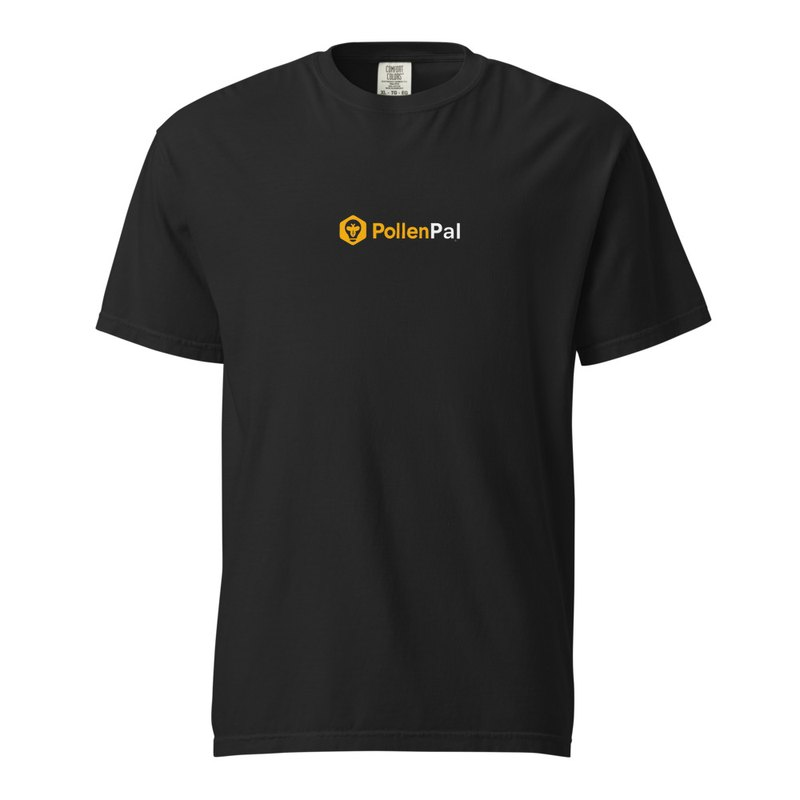
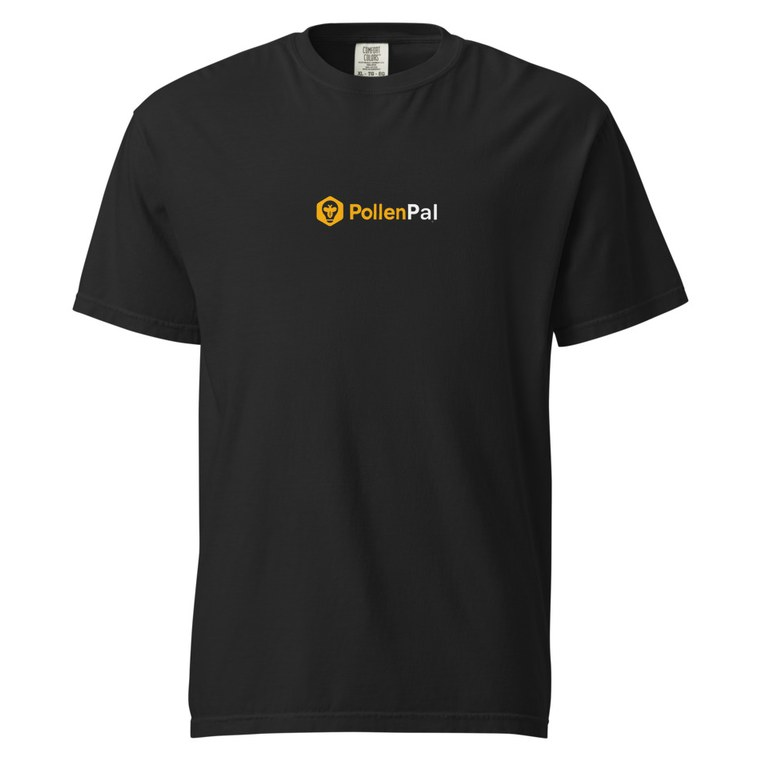
Rework the merch page layout so it reads as a real store
The page looked sparse and unfinished. Three real problems, all fixed.

Product images rendered as 478x760 portrait boxes that object-fit cropped, so the
shirts looked stretched. The height attribute on the <img> was beating
aspect-ratio: 1/1. Added an explicit height: auto and kept the attributes, so the
browser still reserves space and the layout does not shift on load.

Both mockups are now cropped to ONE shared box, computed from the union of the two
garments' bounding boxes. Printful ships them with a wide white margin, so the
shirts sat small in their frames; cropping each to its own bounds would have put
the two at slightly different scales side by side.

The bottom of the page was a centred blob of grey small print held together with
<br><br>. It is now a three-column spec strip (the blank, sizing, shipping) using
the same uppercase-label discipline as the rest of the site, with the Printful
checkout handoff as a single quiet footnote underneath.

Also: own class names (.merch-shop rather than .section) so nothing fights the
shared stylesheet's 120px default, tighter vertical rhythm, a real divider between
price and product name, equal-height cards, keyboard focus handled via
:focus-within, and prefers-reduced-motion respected.

diff --git a/merch.html b/merch.html
@@ -32,18 +32,29 @@
   <style>
     /* Merch page only. Kept local rather than in styles.css: this page is a
        standalone surface that no other page links to, and styles.css is the
-       shared system for the marketing pages. */
-    .merch-hero { padding: 88px 0 8px; text-align: center; }
+       shared system every marketing page depends on.
+       Own class names (.merch-*) so nothing here fights .section's 120px default. */
+
+    .merch-hero { padding: 92px 0 0; text-align: center; }
     .merch-hero .eyebrow { display: flex; justify-content: center; }
-    .merch-hero h1 { font-size: clamp(42px, 5.4vw, 72px); margin-bottom: 22px; }
+    .merch-hero h1 { font-size: clamp(44px, 5.6vw, 76px); margin-bottom: 20px; }
+    .merch-hero .lede { margin: 0 auto; }
+
+    .merch-shop {
+      margin-top: 72px;
+      padding: 80px 0 96px;
+      background: var(--cream-soft);
+      border-top: 1px solid var(--line);
+    }
 
     .merch-grid {
       display: grid;
       grid-template-columns: repeat(2, 1fr);
-      gap: 32px;
-      max-width: 880px;
+      gap: 40px;
+      max-width: 1000px;
       margin: 0 auto;
     }
+
     .merch-card {
       display: flex;
       flex-direction: column;
@@ -53,52 +64,95 @@
       overflow: hidden;
       transition: transform 0.2s ease, box-shadow 0.2s ease;
     }
-    .merch-card:hover {
-      transform: translateY(-3px);
-      box-shadow: 0 18px 40px -18px rgba(10, 10, 10, 0.22);
+    .merch-card:hover,
+    .merch-card:focus-within {
+      transform: translateY(-4px);
+      box-shadow: 0 24px 50px -22px rgba(10, 10, 10, 0.28);
     }
-    /* The Printful mockups ship on an opaque white background, so the card
-       has to be white too. A cream card would frame each shot in a white box. */
+    /* Printful's mockups bake in an opaque white background, so the image plate
+       has to be white. Both files are cropped to one shared box, which is what
+       keeps the two shirts at identical scale side by side. */
     .merch-card img {
       display: block;
       width: 100%;
+      /* height:auto is load-bearing. The width/height attributes on the <img> are
+         kept so the browser can reserve space and not shift layout on load, but
+         without this the 760 height attribute wins over aspect-ratio and renders
+         the shirt into a portrait box that object-fit then crops. */
+      height: auto;
       aspect-ratio: 1 / 1;
       object-fit: cover;
       background: #fff;
     }
+
     .merch-card-body {
       display: flex;
       flex-direction: column;
       flex: 1;
-      padding: 26px 26px 28px;
+      gap: 4px;
+      padding: 24px 26px 26px;
       border-top: 1px solid var(--line);
     }
-    .merch-card h2 { font-size: 21px; line-height: 1.25; margin-bottom: 6px; }
-    .merch-colorway { font-size: 14px; color: var(--muted); }
-    .merch-meta {
-      display: flex;
-      align-items: baseline;
-      justify-content: space-between;
-      gap: 12px;
-      margin-top: 18px;
+    .merch-card h2 {
+      font-size: 20px;
+      line-height: 1.25;
+      letter-spacing: -0.02em;
+      margin: 0;
     }
-    .merch-price { font-size: 20px; font-weight: 700; color: var(--ink); }
-    .merch-sizes { font-size: 13px; color: var(--muted); }
-    .merch-card .btn { margin-top: 20px; justify-content: center; }
+    .merch-colorway { font-size: 14px; color: var(--muted); margin: 0; }
 
-    .merch-note {
-      max-width: 620px;
-      margin: 64px auto 0;
-      text-align: center;
-      font-size: 14px;
-      line-height: 1.7;
+    .merch-buy {
+      display: flex;
+      align-items: center;
+      justify-content: space-between;
+      gap: 16px;
+      margin-top: 22px;
+      padding-top: 18px;
+      border-top: 1px solid var(--line);
+    }
+    .merch-price { font-size: 22px; font-weight: 700; color: var(--ink); letter-spacing: -0.02em; }
+    .merch-price small { display: block; font-size: 12px; font-weight: 500; color: var(--muted); letter-spacing: 0; }
+    .merch-buy .btn { padding: 13px 24px; }
+
+    /* Spec strip. Uses the same uppercase-label discipline as the rest of the site,
+       and replaces what was a paragraph of grey small print. */
+    .merch-specs {
+      max-width: 1000px;
+      margin: 72px auto 0;
+      padding-top: 44px;
+      border-top: 1px solid var(--line);
+      display: grid;
+      grid-template-columns: repeat(3, 1fr);
+      gap: 40px;
+    }
+    .merch-spec h3 {
+      font-size: 11px;
+      font-weight: 700;
+      letter-spacing: 1.6px;
+      text-transform: uppercase;
+      color: var(--gold-dark);
+      margin: 0 0 10px;
+    }
+    .merch-spec p { font-size: 14px; line-height: 1.6; color: var(--ink-soft); margin: 0; }
+
+    .merch-footnote {
+      max-width: 1000px;
+      margin: 44px auto 0;
+      font-size: 13px;
+      line-height: 1.6;
       color: var(--muted);
     }
-    .merch-note strong { color: var(--ink-soft); font-weight: 600; }
 
-    @media (max-width: 720px) {
-      .merch-grid { grid-template-columns: 1fr; max-width: 420px; }
+    @media (max-width: 860px) {
+      .merch-grid { grid-template-columns: 1fr; gap: 28px; max-width: 440px; }
+      .merch-specs { grid-template-columns: 1fr; gap: 28px; margin-top: 56px; padding-top: 36px; }
       .merch-hero { padding-top: 64px; }
+      .merch-shop { margin-top: 56px; padding: 56px 0 72px; }
+    }
+
+    @media (prefers-reduced-motion: reduce) {
+      .merch-card { transition: none; }
+      .merch-card:hover, .merch-card:focus-within { transform: none; }
     }
   </style>
 </head>
@@ -127,45 +181,54 @@ height="0" width="0" style="display:none;visibility:hidden"></iframe></noscript>
     </div>
   </section>
 
-  <section class="section bg-cream">
+  <section class="merch-shop">
     <div class="wrap">
 
       <div class="merch-grid">
 
         <article class="merch-card">
-          <img src="/images/merch/tee-white.jpg" alt="PollenPal Classic Tee in white, with the PollenPal logo on the left chest" width="800" height="800" loading="lazy">
+          <img src="/images/merch/tee-white.jpg" alt="PollenPal Classic Tee in white, logo on the left chest" width="760" height="760">
           <div class="merch-card-body">
             <h2>PollenPal Classic Tee</h2>
             <p class="merch-colorway">White. Logo on the left chest.</p>
-            <div class="merch-meta">
-              <span class="merch-price">From $19.88</span>
-              <span class="merch-sizes">S to 4XL</span>
+            <div class="merch-buy">
+              <span class="merch-price">$19.88<small>S to 4XL</small></span>
+              <a class="btn btn-primary" href="https://pollenpal.printful.me/product/pollenpal-classic-tee" rel="noopener">Buy →</a>
             </div>
-            <a class="btn btn-primary" href="https://pollenpal.printful.me/product/pollenpal-classic-tee" rel="noopener">Buy →</a>
           </div>
         </article>
 
         <article class="merch-card">
-          <img src="/images/merch/tee-black.jpg" alt="PollenPal Innovative Tee in black, with the PollenPal logo across the chest" width="800" height="800" loading="lazy">
+          <img src="/images/merch/tee-black.jpg" alt="PollenPal Innovative Tee in black, logo across the chest" width="760" height="760">
           <div class="merch-card-body">
             <h2>PollenPal Innovative Tee</h2>
             <p class="merch-colorway">Black. Logo across the chest.</p>
-            <div class="merch-meta">
-              <span class="merch-price">From $19.88</span>
-              <span class="merch-sizes">S to 4XL</span>
+            <div class="merch-buy">
+              <span class="merch-price">$19.88<small>S to 4XL</small></span>
+              <a class="btn btn-primary" href="https://pollenpal.printful.me/product/pollenpal-innovative-tee" rel="noopener">Buy →</a>
             </div>
-            <a class="btn btn-primary" href="https://pollenpal.printful.me/product/pollenpal-innovative-tee" rel="noopener">Buy →</a>
           </div>
         </article>
 
       </div>
 
-      <p class="merch-note">
-        Every shirt is a Comfort Colors 1717, a heavyweight garment-dyed blank that softens with wear.
-        Sizes run S to 4XL; 2XL and up cost a little more.
-        <br><br>
-        <strong>Checkout happens on our Printful store.</strong> Printful prints and ships each order for us,
-        so the Buy button takes you to their secure storefront to pick a size and pay. Orders ship within the US.
+      <div class="merch-specs">
+        <div class="merch-spec">
+          <h3>The blank</h3>
+          <p>Comfort Colors 1717. Garment-dyed 100% ring-spun cotton at 6.1 oz, relaxed fit, pre-shrunk. It gets softer the more you wear it.</p>
+        </div>
+        <div class="merch-spec">
+          <h3>Sizing</h3>
+          <p>S through 4XL, unisex. 2XL and up cost a little more, since the blank does. Size guide is on the product page.</p>
+        </div>
+        <div class="merch-spec">
+          <h3>Shipping</h3>
+          <p>Each shirt is printed after you order it and ships within the US. Nothing sits in a warehouse waiting.</p>
+        </div>
+      </div>
+
+      <p class="merch-footnote">
+        Printful prints and ships every order for us, so Buy opens our store on their site to pick a size and pay.
       </p>
 
     </div>

diff --git a/docs/superpowers/specs/2026-07-10-merch-page-design.md b/docs/superpowers/specs/2026-07-10-merch-page-design.md
@@ -88,7 +88,15 @@ No build step, consistent with the rest of the site.
 
 - **Printful mockups have an opaque white background**, so the product cards must be white.
   A cream card frames every shot in a visible white box. This is why `.merch-card` is `--bg`
-  and the surrounding section is `.bg-cream`, rather than the reverse.
+  and the surrounding section is `.merch-shop` (cream), rather than the reverse.
+- **Both mockups are cropped to ONE shared box** (computed from the union of the two garments'
+  bounding boxes). Cropping each image to its own bounds would render the two shirts at slightly
+  different scales side by side, which is exactly the kind of thing that reads as amateur without
+  the viewer being able to say why.
+- **`.merch-card img` needs an explicit `height: auto`.** The `width`/`height` attributes on the
+  `<img>` are kept so the browser reserves space and does not shift layout on load, but the `height`
+  attribute otherwise wins over `aspect-ratio: 1/1` and renders the shirt into a 478x760 portrait
+  box that `object-fit: cover` then crops. This shipped once and looked broken.
 - **Mockup images are committed to `images/merch/`, not hotlinked** from `files.cdn.printful.com`.
   Those CDN URLs are content-hashed and rotate when a design is re-uploaded, which would break
   the page silently.
